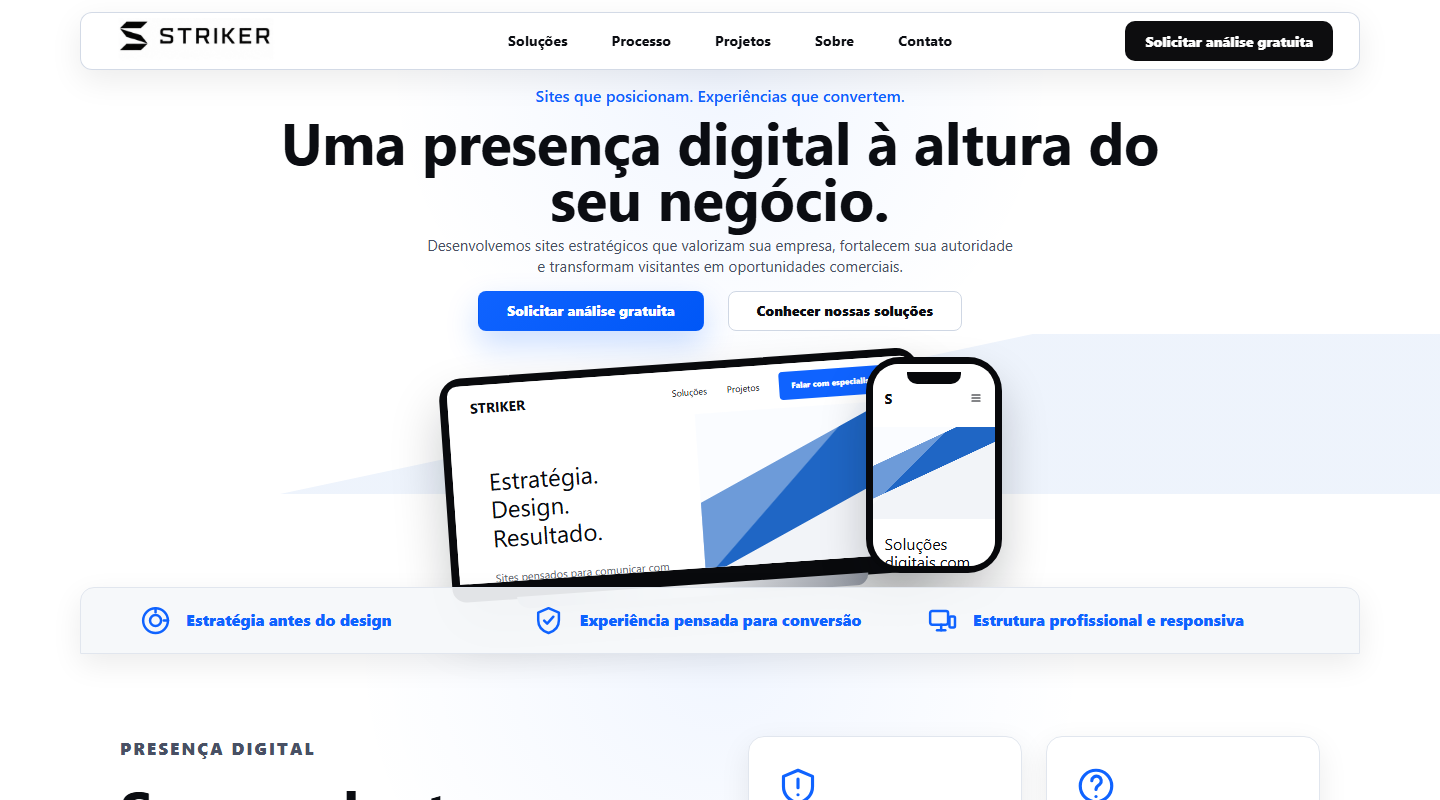
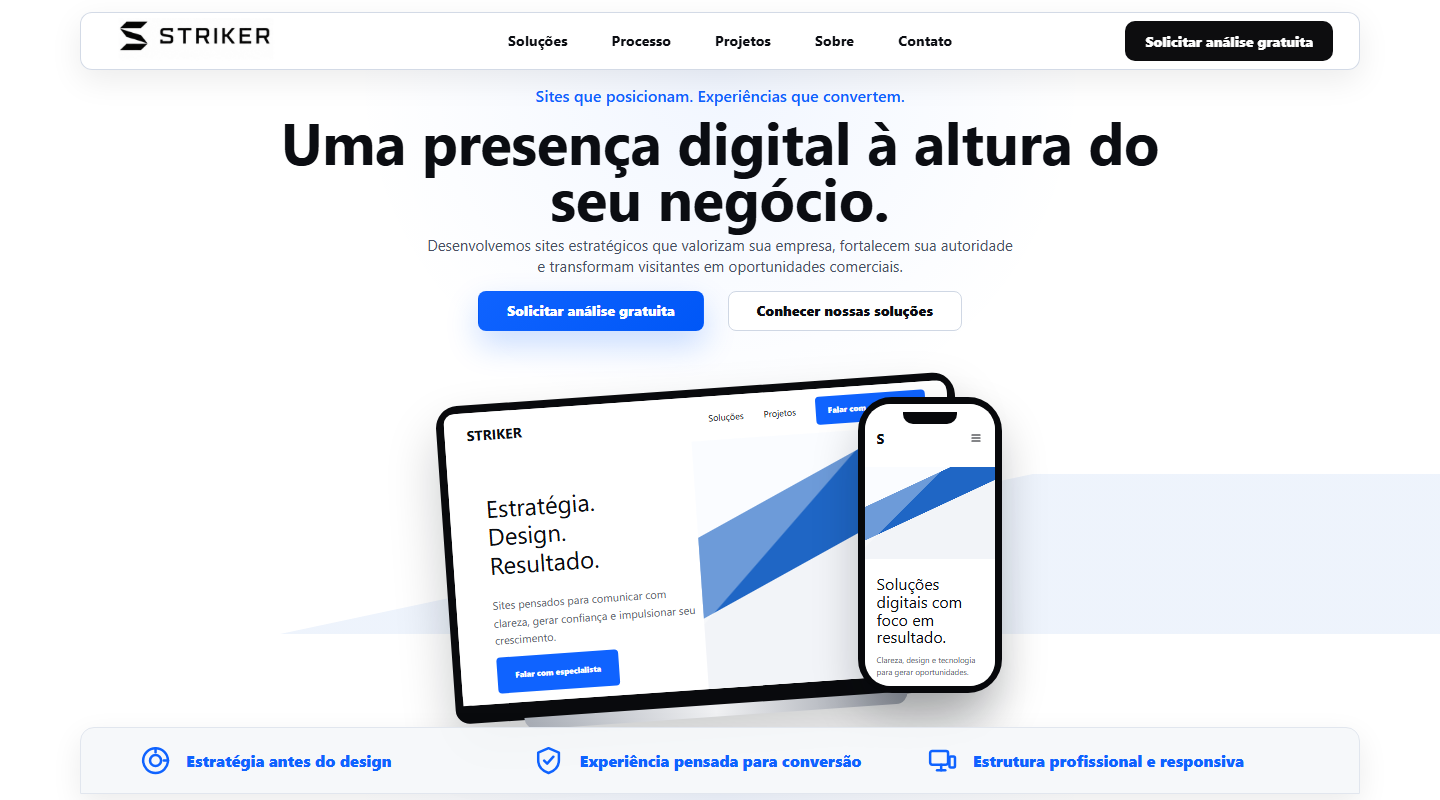
Fill desktop hero viewport composition

Changed region(s): [[0.0938, 0.4375, 0.875, 1.0], [0.0625, 0.9062, 0.2812, 1.0], [0.625, 0.9375, 0.875, 1.0]]

diff --git a/app/globals.css b/app/globals.css
@@ -3618,7 +3618,9 @@ blockquote {
   }
 
   .hero {
-    min-height: 0;
+    display: flex;
+    min-height: calc(100svh - clamp(70px, 9.5vh, 86px));
+    flex-direction: column;
     padding-top: clamp(20px, 3.4vh, 34px);
   }
 
@@ -3655,19 +3657,19 @@ blockquote {
 
   .device-stage {
     width: min(700px, calc(100% - 72px));
-    height: clamp(260px, 34vh, 320px);
+    height: clamp(330px, 44vh, 410px);
   }
 
   .laptop {
     left: 7%;
-    width: clamp(460px, 39vw, 530px);
-    height: clamp(252px, 30vh, 292px);
+    width: clamp(540px, 39vw, 650px);
+    height: clamp(320px, 40vh, 370px);
   }
 
   .phone {
     right: 6%;
-    width: clamp(132px, 11vw, 154px);
-    height: clamp(244px, 29vh, 286px);
+    width: clamp(148px, 11vw, 176px);
+    height: clamp(276px, 34vh, 330px);
   }
 
   .hero::after {
@@ -3679,6 +3681,7 @@ blockquote {
     width: min(1280px, calc(100% - clamp(48px, 7vw, 96px)));
     min-height: 0;
     gap: clamp(12px, 1.5vw, 18px);
+    margin: auto auto 0;
     padding: clamp(18px, 2.4vh, 26px) clamp(34px, 5vw, 58px);
   }
 
@@ -3779,12 +3782,12 @@ blockquote {
 
   .device-stage {
     width: min(640px, calc(100% - 96px));
-    height: clamp(230px, 32vh, 270px);
+    height: clamp(318px, 47vh, 380px);
   }
 
   .laptop {
-    width: clamp(420px, 36vw, 480px);
-    height: clamp(224px, 28vh, 252px);
+    width: clamp(455px, 37vw, 520px);
+    height: clamp(282px, 40vh, 318px);
     border-width: 8px;
     border-bottom-width: 18px;
   }
@@ -3795,8 +3798,8 @@ blockquote {
   }
 
   .phone {
-    width: clamp(116px, 9.5vw, 136px);
-    height: clamp(216px, 27vh, 250px);
+    width: clamp(126px, 10vw, 148px);
+    height: clamp(250px, 37vh, 296px);
     border-width: 7px;
   }
 

diff --git a/visual-checks/COMPARACAO_VISUAL.md b/visual-checks/COMPARACAO_VISUAL.md
@@ -5,6 +5,7 @@ Ambiente: produção local `http://localhost:3000/`
 Capturas geradas:
 
 - `report.json`
+- `scale/hero-1900x914.png`
 - `scale/hero-1536x730.png`
 - `scale/hero-1440x800.png`
 - `scale/hero-1366x768.png`
@@ -14,6 +15,7 @@ Capturas geradas:
 
 ## Viewports verificados
 
+- 1900 x 914 CSS: `innerWidth=1900`, `innerHeight=914`, `devicePixelRatio=1`, sem overflow horizontal.
 - 1536 x 730 CSS: `innerWidth=1536`, `innerHeight=730`, `devicePixelRatio=1`, sem overflow horizontal.
 - 1440 x 800 CSS: `innerWidth=1440`, `innerHeight=800`, `devicePixelRatio=1`, sem overflow horizontal.
 - 1366 x 768 CSS: `innerWidth=1366`, `innerHeight=768`, `devicePixelRatio=1`, sem overflow horizontal.
@@ -32,7 +34,7 @@ Capturas geradas:
 ## Comparação por seção
 
 - Header: estático, com uma única instância e sem comportamento fixed/sticky.
-- Hero: composição reescalada para notebook Full HD em zoom 100%. Em 1536 x 730, 1440 x 800, 1366 x 768 e 1280 x 720, cabeçalho, slogan, H1, parágrafo, CTAs, mockup principal e início da faixa de benefícios aparecem na mesma primeira tela. No mobile 390 x 844, mensagem, CTAs e mockup principal aparecem como uma composição única; a faixa começa logo abaixo.
+- Hero: composição reescalada para notebook Full HD em zoom 100%. Em 1900 x 914, 1536 x 730, 1440 x 800, 1366 x 768 e 1280 x 720, cabeçalho, slogan, H1, parágrafo, CTAs, mockup principal e faixa de benefícios aparecem na mesma primeira tela. No viewport 1900 x 914, a faixa termina no fundo do viewport, eliminando o espaço vazio abaixo dela. No mobile 390 x 844, mensagem, CTAs e mockup principal aparecem como uma composição única; a faixa começa logo abaixo.
 - Diagnóstico e transição: cards com ícones lineares legíveis, transição escura compacta e mobile empilhado sem cortes laterais.
 - Soluções, benefícios e público: grid desktop preservado, seis benefícios obrigatórios implementados e chips mobile em largura integral, incluindo "Prestadores de serviço".
 - Processo e projetos: timeline desktop com 7 etapas e linhas sem cruzar texto; mobile em lista vertical legível; placeholders honestos mantidos.
@@ -49,6 +51,7 @@ Nenhuma diferença P0 ou P1 foi encontrada após a segunda rodada. Permanecem ap
 - Header reduzido e mantido como elemento estático no fluxo da página.
 - Hero removido de uma altura mínima fixa grande e recalculado com `clamp()` para título, espaçamentos, botões e mockup.
 - Adicionada media query por altura para viewports desktop com menos de 850px úteis.
+- A faixa de benefícios passou a fechar o hero na primeira tela desktop; o espaço extra foi distribuído antes da faixa, com o mockup ampliado para manter a composição coesa.
 - Seções internas receberam compactação de padding e gaps em desktop para evitar alongamento artificial.
 - O mockup deixou de se comportar visualmente como uma segunda tela separada do texto principal.
 
@@ -56,4 +59,4 @@ Nenhuma diferença P0 ou P1 foi encontrada após a segunda rodada. Permanecem ap
 
 - `npm run lint`: aprovado com 3 avisos conhecidos de `<img>` em `app/page.tsx`.
 - `npm test`: aprovado com Node 24 do runtime do Codex.
-- `node scripts\visual-check.mjs`: aprovado em 1536 x 730, 1440 x 800, 1366 x 768, 1280 x 720 e 390 x 844.
+- `node scripts\visual-check.mjs`: aprovado em 1900 x 914, 1536 x 730, 1440 x 800, 1366 x 768, 1280 x 720 e 390 x 844.
